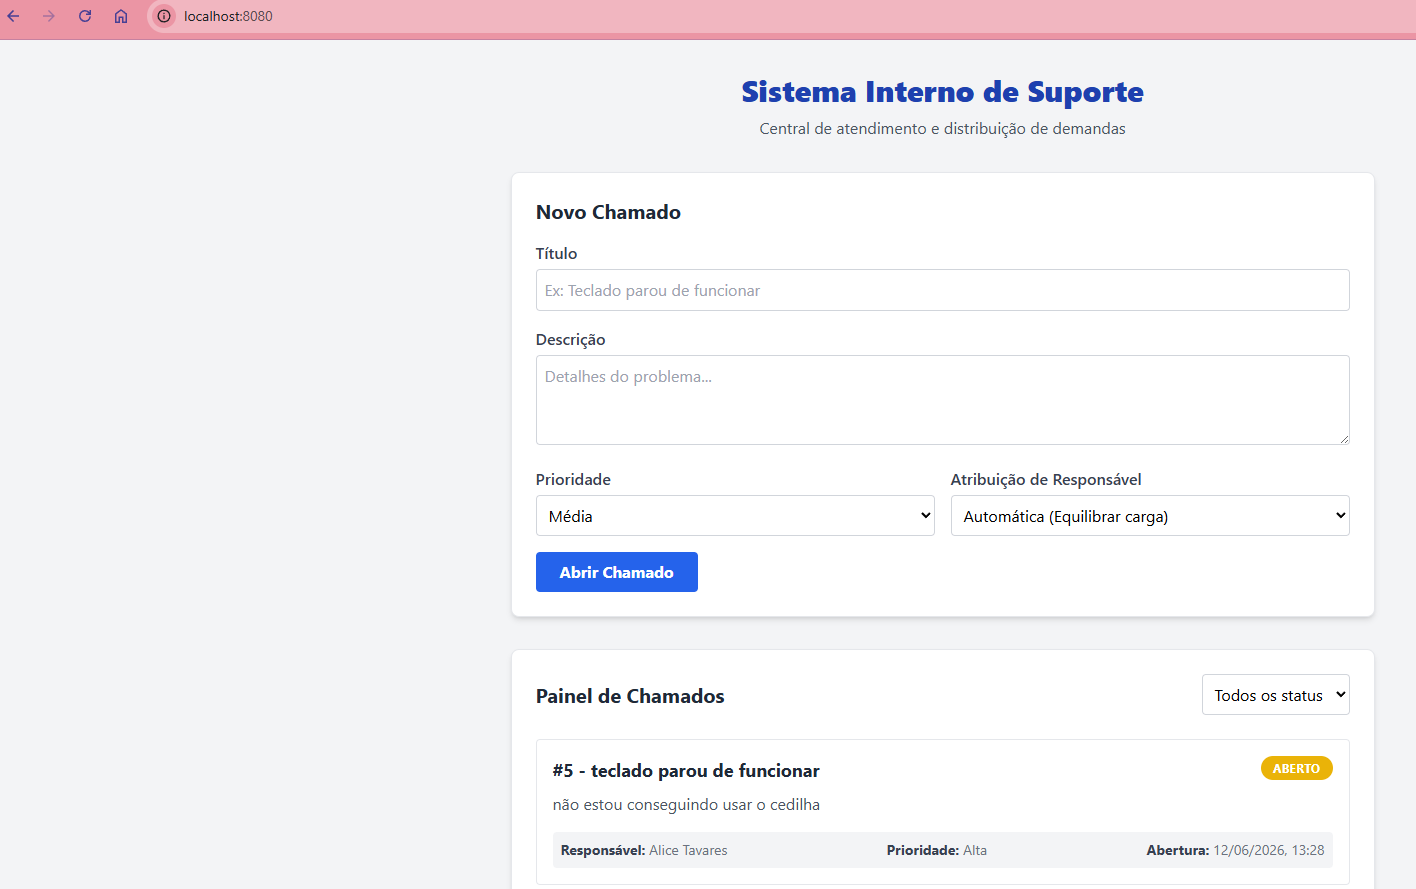
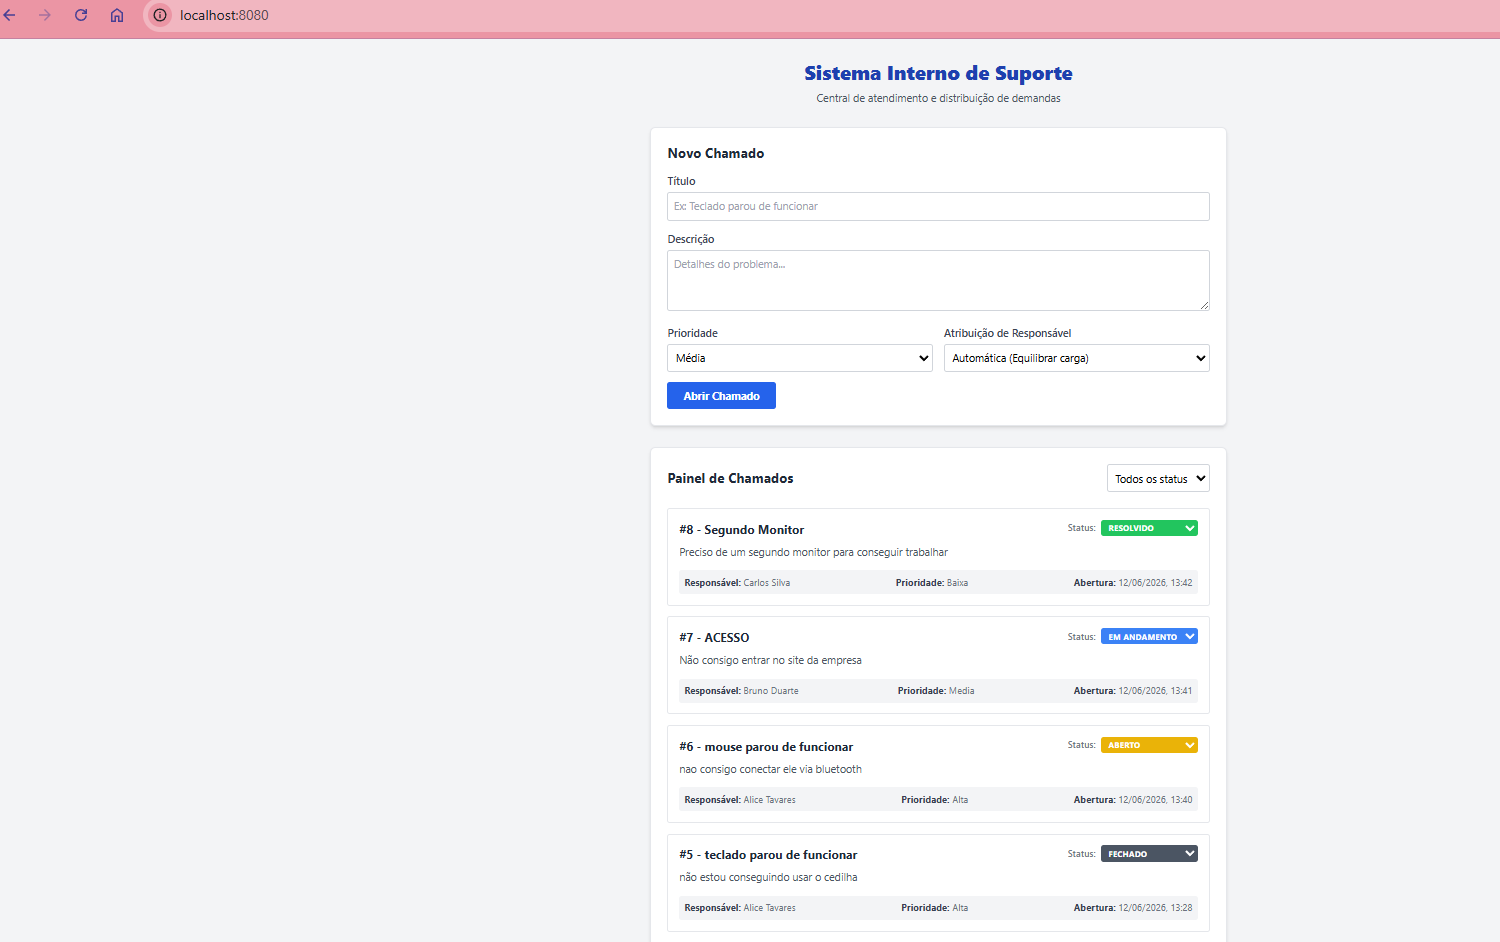
Atualização: Frontend finalizado, integração e atualização da documentação

diff --git a/frontend/src/components/ListaChamados.vue b/frontend/src/components/ListaChamados.vue
@@ -18,11 +18,23 @@
     
     <div class="grid gap-4">
       <div v-for="chamado in chamadosFiltrados" :key="chamado.id" class="border border-gray-200 rounded p-4 hover:bg-gray-50 transition">
-        <div class="flex justify-between items-start mb-2">
+        <div class="flex flex-col md:flex-row justify-between items-start mb-2 gap-2">
           <h3 class="font-bold text-lg text-gray-800">#{{ chamado.id }} - {{ chamado.titulo }}</h3>
-          <span :class="corStatus(chamado.status)" class="px-3 py-1 text-xs font-bold rounded-full text-white uppercase tracking-wide">
-            {{ chamado.status }}
-          </span>
+          
+          <div class="flex items-center gap-2">
+            <span class="text-sm text-gray-500 font-semibold">Status:</span>
+            <select 
+              v-model="chamado.status" 
+              @change="atualizarStatus(chamado)"
+              :class="corStatus(chamado.status)" 
+              class="px-2 py-1 text-xs font-bold rounded text-white uppercase tracking-wide border-none cursor-pointer outline-none"
+            >
+              <option value="aberto" class="bg-white text-gray-800">ABERTO</option>
+              <option value="em andamento" class="bg-white text-gray-800">EM ANDAMENTO</option>
+              <option value="resolvido" class="bg-white text-gray-800">RESOLVIDO</option>
+              <option value="fechado" class="bg-white text-gray-800">FECHADO</option>
+            </select>
+          </div>
         </div>
         
         <p class="text-gray-600 mb-4">{{ chamado.descricao }}</p>
@@ -39,6 +51,7 @@
 
 <script setup>
 import { ref, computed } from 'vue';
+import axios from 'axios';
 
 const props = defineProps({
   chamados: Array
@@ -53,10 +66,10 @@ const chamadosFiltrados = computed(() => {
 
 const corStatus = (status) => {
   const cores = {
-    'aberto': 'bg-yellow-500',
-    'em andamento': 'bg-blue-500',
-    'resolvido': 'bg-green-500',
-    'fechado': 'bg-gray-600'
+    'aberto': 'bg-yellow-500 hover:bg-yellow-600',
+    'em andamento': 'bg-blue-500 hover:bg-blue-600',
+    'resolvido': 'bg-green-500 hover:bg-green-600',
+    'fechado': 'bg-gray-600 hover:bg-gray-700'
   };
   return cores[status] || 'bg-gray-400';
 };
@@ -65,5 +78,19 @@ const formatarData = (dataString) => {
   if (!dataString) return '';
   const data = new Date(dataString);
   return data.toLocaleDateString('pt-BR', { hour: '2-digit', minute: '2-digit' });
+};
+
+// Função que avisa o Backend quando mudamos o status na tela
+const atualizarStatus = async (chamado) => {
+  try {
+    await axios.put(`http://localhost:5000/api/chamados/${chamado.id}`, {
+      status: chamado.status
+    });
+    // Opcional: mostrar um alerta visual mais discreto
+    console.log(`Chamado ${chamado.id} atualizado para ${chamado.status}`);
+  } catch (erro) {
+    console.error("Erro ao atualizar chamado:", erro);
+    alert("Erro ao salvar o novo status.");
+  }
 };
 </script>

diff --git a/backend/app.py b/backend/app.py
@@ -97,6 +97,21 @@ def criar_chamado():
 
     return jsonify(novo_chamado.to_dict()), 201
 
[email redacted]('/api/chamados/<int:id>', methods=['PUT'])
+def atualizar_chamado(id):
+    """Atualiza um chamado existente (Item 2.1), principalmente o status"""
+    chamado = Chamado.query.get_or_404(id)
+    dados = request.get_json()
+
+    if 'status' in dados:
+        chamado.status = dados['status']
+    
+    if 'prioridade' in dados:
+        chamado.prioridade = dados['prioridade']
+
+    db.session.commit()
+    return jsonify(chamado.to_dict()), 200
+
 # CONFIGURAÇÃO INICIAL 
 
 def inicializar_banco():

diff --git a/README.md b/README.md
@@ -6,9 +6,9 @@ Este repositório contém a minha solução para o **Desafio Técnico Full Stack
 
 O objetivo deste projeto é construir a primeira versão de um sistema para organizar e gerenciar pedidos de suporte interno de uma empresa. A aplicação visa resolver o problema de descentralização das solicitações (feitas por WhatsApp, e-mail, etc.) e equilibrar a carga de trabalho da equipe de suporte através de uma distribuição inteligente.
 
-##  Justificativa de Arquitetura e Escolhas Tecnológicas (Item 1.2)
+##  Justificativa de Arquitetura e Escolhas Tecnológicas 
 
-O escopo do desafio enfatiza a importância da **produtividade em times pequenos**, **redução de atrito** e **facilidade de execução local** por qualquer membro do time. Pensei em uma solução com as seguintes tecnologias:
+O desafio fala sobre a importância da **produtividade em times pequenos**, **redução de atrito** e **facilidade de execução local** por qualquer membro do time. Pensei em uma solução com as seguintes tecnologias:
 
 * **Backend: Python com Flask**
   * **Por quê?** Python oferece uma sintaxe limpa e alta produtividade. O Flask, sendo um microframework, é leve, direto ao ponto e perfeito para construir APIs RESTful rápidas e eficientes sem a sobrecarga de ferramentas que não seriam utilizadas neste escopo inicial.
@@ -19,53 +19,61 @@ O escopo do desafio enfatiza a importância da **produtividade em times pequenos
 * **Infraestrutura: Docker e Docker Compose**
   * **Por quê?** Atendendo diretamente ao requisito **6.1**, o uso de containers garante que qualquer pessoa da equipe da Codificar possa rodar o projeto com apenas um comando, sem se preocupar com versões de pacotes, instalação de linguagens ou conflitos de ambiente.
 
-## Diário de Desenvolvimento
-
-Para demonstrar a evolução e o funcionamento do sistema, documentei as etapas de desenvolvimento e as telas da aplicação:
-
-### Estrutura de pastas:
-![Estrutura de pastas](./imagens/01_estrutura_de_pastas.png)
-
-### Como executar o projeto localmente 
-
-Pensando na facilidade de execução por qualquer membro da equipe, o projeto foi totalmente conteinerizado.
-
-### Pré-requisitos
-* [Docker](https://www.docker.com/) , [Rancher desktop](https://rancherdesktop.io/) ou algum outro **orquestrador de conteiner** instalado e rodando em sua máquina.
-
-### Configuração do Backend e Testes Iniciais
-
-Nesta etapa, o ambiente básico do backend foi estruturado utilizando o Flask. Visando a qualidade e estabilidade do código, também foi configurada a infraestrutura de testes automatizados com o `pytest` dentro do container Docker.
-
-####  Execução dos Testes Automatizados
-Foi criado um teste automatizado básico para validar a rota de status da API. Ao executar os testes de dentro do container com o comando: 
-```Bash
-  docker-compose exec api_chamados pytest
-```
-   
-  A suite respondeu com sucesso:
-
-![Testes automatizados com Pytest passando com sucesso](./imagens/02_teste_pytest_sucesso.png)
-
-####  Validação da API no Navegador
-Com o container Docker em execução, a rota de status da API (`/api/status`) foi testada diretamente no navegador, confirmando que o "motor" do nosso sistema está respondendo corretamente em formato JSON:
-
-![Retorno JSON da rota de status da API no navegador](./imagens/03_api_status_localhost.png)
-
-## Regras de Negócio e Decisões 
+##  Regras de Negócio e Decisões 
 
 ### Definição de Chamados "Em Aberto"
 Para o algoritmo de **Distribuição Automática**, foi necessário definir o que constitui um chamado "em aberto" para calcular a carga de trabalho de cada responsável.
 
-**Decisão:** Apenas chamados com os status `aberto` e `em andamento` são contabilizados na carga de trabalho.
-Porque no dia a dia de uma equipe de suporte, um chamado `resolvido` (aguardando validação do usuário) ou `fechado` não exige mais esforço ativo do técnico. Contabilizar esses status finalizados faria com que bons profissionais que resolvem muitos chamados fossem punidos recebendo menos chamados novos, desequilibrando a produtividade real da equipe.
+* **Decisão:** Apenas chamados com os status `aberto` e `em andamento` são contabilizados na carga de trabalho.
+* **Justificativa:** No dia a dia de uma equipe de suporte, um chamado `resolvido` (aguardando validação do usuário) ou `fechado` não exige mais esforço ativo do técnico. Contabilizar esses status finalizados faria com que bons profissionais que resolvem muitos chamados fossem punidos recebendo menos chamados novos, desequilibrando a produtividade real da equipe.
 
-## Passos para execução
+##  Diário de Desenvolvimento
+
+Para demonstrar a evolução e o funcionamento do sistema, documentei as etapas de desenvolvimento e as telas da aplicação:
+
+### 1. Estrutura de Pastas
+![Estrutura de pastas](./imagens/01_estrutura_de_pastas.png)
+
+### 2. Configuração do Backend e Testes Iniciais
+Nesta etapa, o ambiente básico do backend foi estruturado utilizando o Flask. Visando a qualidade e estabilidade do código, também foi configurada a infraestrutura de testes automatizados com o `pytest` dentro do container Docker.
+
+**Execução dos Testes Automatizados**
+Foi criado um teste automatizado básico para validar a rota de status da API. Ao executar os testes de dentro do container com o comando `docker-compose exec api_chamados pytest`, a suite respondeu com sucesso:
+![Testes automatizados com Pytest passando com sucesso](./imagens/02_teste_pytest_sucesso.png)
+
+**Validação da API no Navegador**
+Com o container Docker em execução, a rota de status da API (`/api/status`) foi testada diretamente no navegador, confirmando que o "motor" do nosso sistema está respondendo corretamente em formato JSON:
+![Retorno JSON da rota de status da API no navegador](./imagens/03_api_status_localhost.png)
+
+### 3. Frontend Reativo com Vue.js
+Para o frontend, optei por utilizar o **Vue.js** empacotado com o **Vite** e estilizado com **Tailwind CSS**. Essa stack garante uma interface limpa, rápida e altamente produtiva, reduzindo o atrito de desenvolvimento em times pequenos.
+![Frontend rodando](./imagens/04_frontend_rodando.png)
+
+**Arquitetura de Componentes**
+Seguindo o princípio de componentização e código limpo (DRY), a interface foi modularizada:
+* `App.vue`: Gerencia o estado principal (lista de chamados) e orquestra a tela.
+* `FormularioChamado.vue`: Componente responsável por capturar os dados, comunicar com a API e lidar com as escolhas de atribuição manual ou automática.
+* `ListaChamados.vue`: Exibe os chamados de forma visual, fornecendo filtros rápidos de status e controles de atualização ágil.
+
+**Fluxo Completo e Funcional**
+Com o sistema operando de ponta a ponta, a distribuição automática calcula a carga de trabalho no backend e a interface reflete a operação imediatamente. Ao alterar o status de um chamado para `resolvido` ou `fechado` pelo painel, o técnico responsável volta a ter sua carga de trabalho reduzida no algoritmo da API, mantendo a equipe sempre equilibrada.
+![Frontend funcionando](./imagens/05_frontend_Funcionando.png)
+
+---
+
+##  Como executar o projeto localmente 
+
+Pensando na facilidade de execução por qualquer membro da equipe, o projeto foi totalmente conteinerizado.
+
+### Pré-requisitos
+* [Docker](https://www.docker.com/), [Rancher Desktop](https://rancherdesktop.io/) ou algum outro **orquestrador de containers** instalado e rodando em sua máquina.
+
+### Passos para execução
+
 1. Clone este repositório:
    ```bash
    git clone https://github.com/SirMusashi/sistema_chamados.git
    ```
-
 2. Acesse a pasta do projeto:
    ```bash
    cd sistema_chamados
@@ -74,7 +82,11 @@ Porque no dia a dia de uma equipe de suporte, um chamado `resolvido` (aguardando
    ```bash
    docker-compose up --build
    ```
+4. Acesse o sistema através do seu navegador:
 
-4. A API estará disponível no endereço: http://localhost:5000 
+  * Interface do Usuário (Frontend): http://localhost:8080
+
+  * API (Backend): http://localhost:5000
+
 ---
-Desenvolvido por Bruno Duarte para o processo seletivo da Codificar.
+### Desenvolvido por Bruno Duarte para o processo seletivo da Codificar. (: